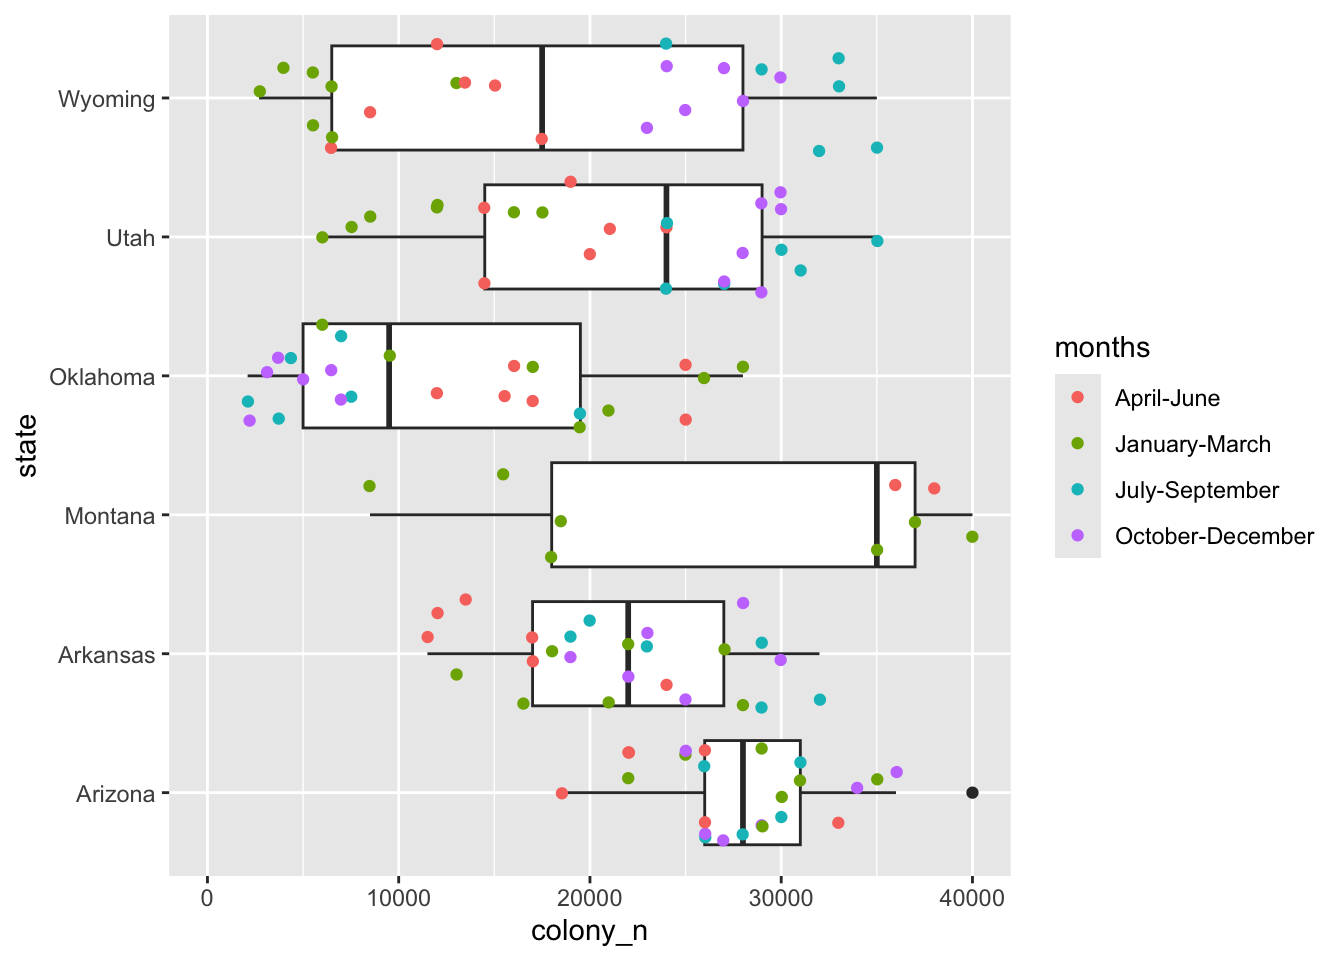
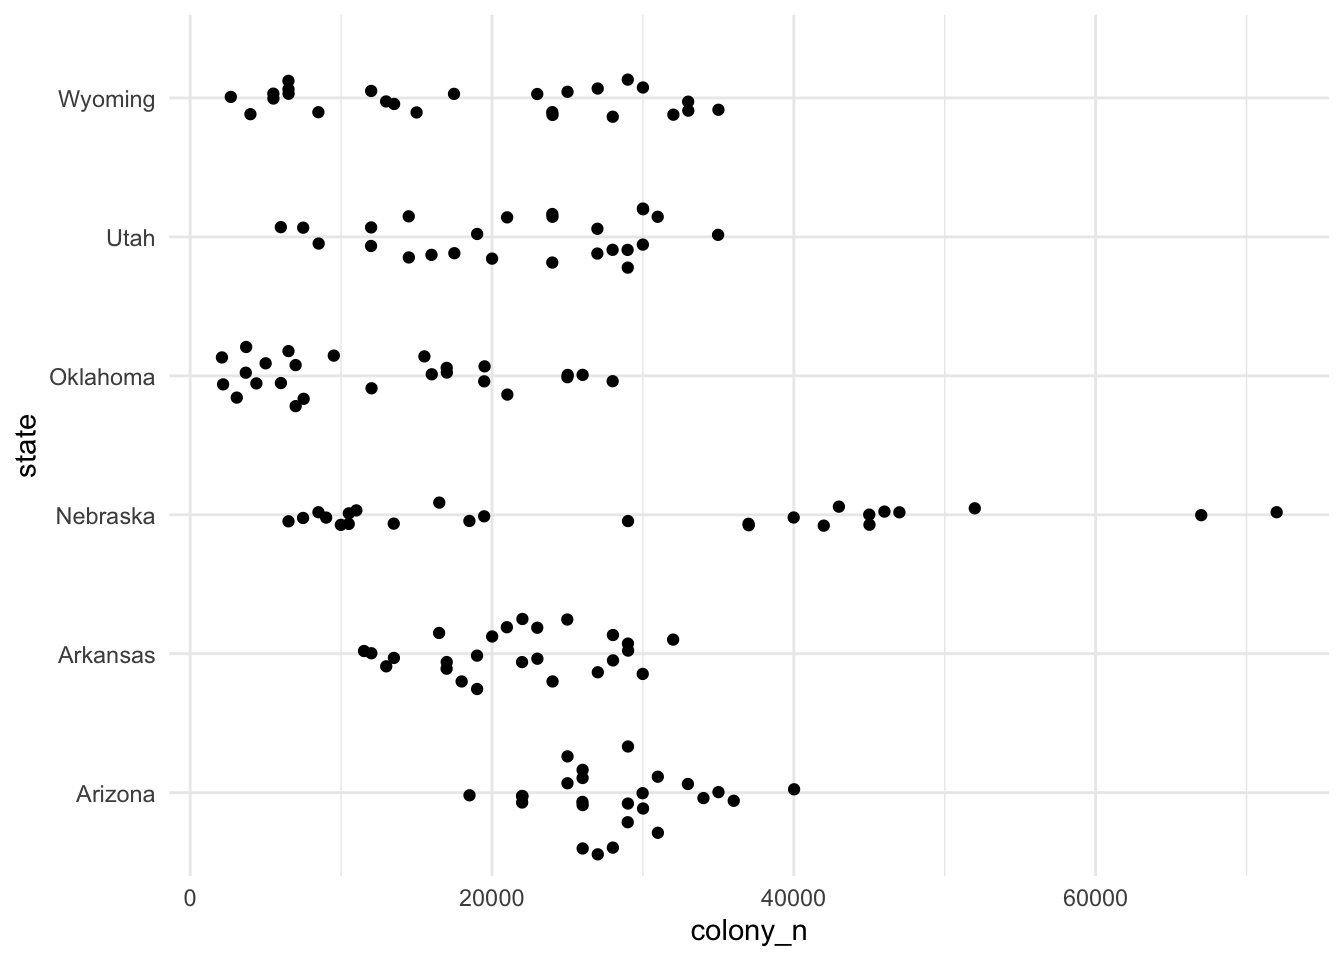
added bees

diff --git a/docs/Fallbeispiel 2 - Bienenvölker in den USA .html b/docs/Fallbeispiel 2 - Bienenvölker in den USA .html
@@ -365,8 +365,8 @@ pre > code.sourceCode > span > a:first-child::before { text-decoration: underlin
 </table>
 </section>
 </section>
-<section id="wie-verteilen-sich-die-völker-zwischen-und-innerhalb-von-jahren" class="level2">
-<h2 class="anchored" data-anchor-id="wie-verteilen-sich-die-völker-zwischen-und-innerhalb-von-jahren">Wie verteilen sich die Völker zwischen und innerhalb von Jahren</h2>
+<section id="wie-verteilen-sich-die-völkeranzahl-zwischen-den-states" class="level2">
+<h2 class="anchored" data-anchor-id="wie-verteilen-sich-die-völkeranzahl-zwischen-den-states">Wie verteilen sich die Völkeranzahl zwischen den States?</h2>
 <div class="cell">
 <div class="code-copy-outer-scaffold"><div class="sourceCode cell-code" id="cb1"><pre class="sourceCode r code-with-copy"><code class="sourceCode r"><span id="cb1-1"><a href="#cb1-1" aria-hidden="true" tabindex="-1"></a><span class="fu">library</span>(ggplot2)</span>
 <span id="cb1-2"><a href="#cb1-2" aria-hidden="true" tabindex="-1"></a><span class="fu">library</span>(dplyr)</span></code></pre></div><button title="In die Zwischenablage kopieren" class="code-copy-button"><i class="bi"></i></button></div>
@@ -403,10 +403,24 @@ Attaching package: 'dplyr'</code></pre>
 </div>
 </div>
 </div>
-<p>In diesem Plot fällt zunächst auf, dass die Quartale alphabetisch sortiert sind und nicht chronologisch. Zudem scheint die Variable <code>colony_n</code> sehr rechtsschief verteilt zu sein.</p>
+<p>In diesem Plot fällt zunächst auf, dass die Quartale alphabetisch sortiert sind und nicht chronologisch. Daher wird eine neue Zeitvariable kodiert:</p>
+<div class="cell">
+<div class="code-copy-outer-scaffold"><div class="sourceCode cell-code" id="cb8"><pre class="sourceCode r code-with-copy"><code class="sourceCode r"><span id="cb8-1"><a href="#cb8-1" aria-hidden="true" tabindex="-1"></a><span class="fu">library</span>(lubridate)</span>
+<span id="cb8-2"><a href="#cb8-2" aria-hidden="true" tabindex="-1"></a>colony <span class="ot">&lt;-</span> colony <span class="sc">%&gt;%</span></span>
+<span id="cb8-3"><a href="#cb8-3" aria-hidden="true" tabindex="-1"></a>  <span class="fu">mutate</span>(</span>
+<span id="cb8-4"><a href="#cb8-4" aria-hidden="true" tabindex="-1"></a>    <span class="at">months_num =</span> <span class="fu">case_when</span>(</span>
+<span id="cb8-5"><a href="#cb8-5" aria-hidden="true" tabindex="-1"></a>      months <span class="sc">==</span> <span class="st">"January-March"</span> <span class="sc">~</span> <span class="dv">1</span>,</span>
+<span id="cb8-6"><a href="#cb8-6" aria-hidden="true" tabindex="-1"></a>      months <span class="sc">==</span> <span class="st">"April-June"</span> <span class="sc">~</span> <span class="dv">2</span>,</span>
+<span id="cb8-7"><a href="#cb8-7" aria-hidden="true" tabindex="-1"></a>      months <span class="sc">==</span> <span class="st">"July-September"</span> <span class="sc">~</span> <span class="dv">3</span>,</span>
+<span id="cb8-8"><a href="#cb8-8" aria-hidden="true" tabindex="-1"></a>      months <span class="sc">==</span> <span class="st">"October-December"</span> <span class="sc">~</span> <span class="dv">4</span></span>
+<span id="cb8-9"><a href="#cb8-9" aria-hidden="true" tabindex="-1"></a>    ),</span>
+<span id="cb8-10"><a href="#cb8-10" aria-hidden="true" tabindex="-1"></a>    <span class="at">time_date =</span> <span class="fu">ymd</span>(<span class="fu">paste</span>(year, months_num, <span class="st">"01"</span>, <span class="at">sep =</span> <span class="st">"-"</span>))</span>
+<span id="cb8-11"><a href="#cb8-11" aria-hidden="true" tabindex="-1"></a>  )</span></code></pre></div><button title="In die Zwischenablage kopieren" class="code-copy-button"><i class="bi"></i></button></div>
+</div>
+<p>Zudem scheint die Variable <code>colony_n</code> sehr rechtsschief verteilt zu sein.</p>
 <p>Ein Blick in die Variable <code>state</code> zeigt, dass es dort sehr heterogene Gruppen gibt.</p>
 <div class="cell">
-<div class="code-copy-outer-scaffold"><div class="sourceCode cell-code" id="cb8"><pre class="sourceCode r code-with-copy"><code class="sourceCode r"><span id="cb8-1"><a href="#cb8-1" aria-hidden="true" tabindex="-1"></a><span class="fu">table</span>(colony<span class="sc">$</span>state)</span></code></pre></div><button title="In die Zwischenablage kopieren" class="code-copy-button"><i class="bi"></i></button></div>
+<div class="code-copy-outer-scaffold"><div class="sourceCode cell-code" id="cb9"><pre class="sourceCode r code-with-copy"><code class="sourceCode r"><span id="cb9-1"><a href="#cb9-1" aria-hidden="true" tabindex="-1"></a><span class="fu">table</span>(colony<span class="sc">$</span>state)</span></code></pre></div><button title="In die Zwischenablage kopieren" class="code-copy-button"><i class="bi"></i></button></div>
 <div class="cell-output cell-output-stdout">
 <pre><code>
        Alabama        Arizona       Arkansas     California       Colorado 
@@ -433,22 +447,74 @@ South Carolina   South Dakota      Tennessee          Texas  United States
 </div>
 <p>Löst man über diese auf, ergeben sich deutlich erwartungskonformere Verteilungen:</p>
 <div class="cell">
-<div class="code-copy-outer-scaffold"><div class="sourceCode cell-code" id="cb10"><pre class="sourceCode r code-with-copy"><code class="sourceCode r"><span id="cb10-1"><a href="#cb10-1" aria-hidden="true" tabindex="-1"></a>colony <span class="sc">%&gt;%</span> </span>
-<span id="cb10-2"><a href="#cb10-2" aria-hidden="true" tabindex="-1"></a>    <span class="co">#filter(state %in% c("United States", "Florida", "Utah", "Minnesota")) %&gt;% </span></span>
-<span id="cb10-3"><a href="#cb10-3" aria-hidden="true" tabindex="-1"></a>    <span class="fu">ggplot</span>(<span class="fu">aes</span>(<span class="at">x =</span> colony_n)) <span class="sc">+</span></span>
-<span id="cb10-4"><a href="#cb10-4" aria-hidden="true" tabindex="-1"></a>    <span class="fu">geom_histogram</span>() <span class="sc">+</span></span>
-<span id="cb10-5"><a href="#cb10-5" aria-hidden="true" tabindex="-1"></a>    <span class="fu">facet_wrap</span>( <span class="sc">~</span> state, <span class="at">scales =</span> <span class="st">"free"</span>)</span></code></pre></div><button title="In die Zwischenablage kopieren" class="code-copy-button"><i class="bi"></i></button></div>
+<div class="code-copy-outer-scaffold"><div class="sourceCode cell-code" id="cb11"><pre class="sourceCode r code-with-copy"><code class="sourceCode r"><span id="cb11-1"><a href="#cb11-1" aria-hidden="true" tabindex="-1"></a><span class="fu">library</span>(ggforce)</span>
+<span id="cb11-2"><a href="#cb11-2" aria-hidden="true" tabindex="-1"></a>colony <span class="sc">%&gt;%</span></span>
+<span id="cb11-3"><a href="#cb11-3" aria-hidden="true" tabindex="-1"></a>  <span class="fu">filter</span>(</span>
+<span id="cb11-4"><a href="#cb11-4" aria-hidden="true" tabindex="-1"></a>    state <span class="sc">%in%</span></span>
+<span id="cb11-5"><a href="#cb11-5" aria-hidden="true" tabindex="-1"></a>      <span class="fu">c</span>(<span class="st">"Nebraska"</span>, <span class="st">"Wyoming"</span>, <span class="st">"Utah"</span>, <span class="st">"Pensylvania"</span>, <span class="st">"Oklahoma"</span>, <span class="st">"Arizona"</span>, <span class="st">"Arkansas"</span>)</span>
+<span id="cb11-6"><a href="#cb11-6" aria-hidden="true" tabindex="-1"></a>  ) <span class="sc">%&gt;%</span></span>
+<span id="cb11-7"><a href="#cb11-7" aria-hidden="true" tabindex="-1"></a>  <span class="fu">ggplot</span>(<span class="fu">aes</span>(<span class="at">x =</span> colony_n, <span class="at">y =</span> state)) <span class="sc">+</span></span>
+<span id="cb11-8"><a href="#cb11-8" aria-hidden="true" tabindex="-1"></a>  <span class="fu">geom_sina</span>() <span class="sc">+</span></span>
+<span id="cb11-9"><a href="#cb11-9" aria-hidden="true" tabindex="-1"></a>  <span class="fu">theme_minimal</span>()</span></code></pre></div><button title="In die Zwischenablage kopieren" class="code-copy-button"><i class="bi"></i></button></div>
 <div class="cell-output cell-output-stderr">
-<pre><code>`stat_bin()` using `bins = 30`. Pick better value `binwidth`.</code></pre>
-</div>
-<div class="cell-output cell-output-stderr">
-<pre><code>Warning: Removed 47 rows containing non-finite outside the scale range
-(`stat_bin()`).</code></pre>
+<pre><code>Warning: Removed 6 rows containing non-finite outside the scale range
+(`stat_sina()`).</code></pre>
 </div>
 <div class="cell-output-display">
 <div>
 <figure class="figure">
-<p><a href="Fallbeispiel-2---Bienenvölker-in-den-USA-_files/figure-html/unnamed-chunk-5-1.png" class="lightbox" data-gallery="quarto-lightbox-gallery-2"><img src="Fallbeispiel-2---Bienenvölker-in-den-USA-_files/figure-html/unnamed-chunk-5-1.png" class="img-fluid figure-img" width="1728"></a></p>
+<p><a href="Fallbeispiel-2---Bienenvölker-in-den-USA-_files/figure-html/unnamed-chunk-6-1.png" class="lightbox" data-gallery="quarto-lightbox-gallery-2"><img src="Fallbeispiel-2---Bienenvölker-in-den-USA-_files/figure-html/unnamed-chunk-6-1.png" class="img-fluid figure-img" width="672"></a></p>
+</figure>
+</div>
+</div>
+</div>
+<p>Wie kann man nun den Unterscheid zwischen z.B. Utah und Oklahoma treffend beschreiben? Ein reiner Vergleich der Mittelwerte scheint etwas missleading:</p>
+<div class="cell">
+<div class="code-copy-outer-scaffold"><div class="sourceCode cell-code" id="cb13"><pre class="sourceCode r code-with-copy"><code class="sourceCode r"><span id="cb13-1"><a href="#cb13-1" aria-hidden="true" tabindex="-1"></a>colony <span class="sc">%&gt;%</span></span>
+<span id="cb13-2"><a href="#cb13-2" aria-hidden="true" tabindex="-1"></a>  <span class="fu">filter</span>(state <span class="sc">%in%</span> <span class="fu">c</span>(<span class="st">"Utah"</span>, <span class="st">"Oklahoma"</span>)) <span class="sc">%&gt;%</span></span>
+<span id="cb13-3"><a href="#cb13-3" aria-hidden="true" tabindex="-1"></a>  <span class="fu">group_by</span>(state) <span class="sc">%&gt;%</span> </span>
+<span id="cb13-4"><a href="#cb13-4" aria-hidden="true" tabindex="-1"></a>  <span class="fu">summarize</span>(<span class="at">MW =</span> <span class="fu">mean</span>(colony_n, <span class="at">na.rm =</span> T))</span></code></pre></div><button title="In die Zwischenablage kopieren" class="code-copy-button"><i class="bi"></i></button></div>
+<div class="cell-output cell-output-stdout">
+<pre><code># A tibble: 2 × 2
+  state       MW
+  &lt;chr&gt;    &lt;dbl&gt;
+1 Oklahoma 12368
+2 Utah     21460</code></pre>
+</div>
+</div>
+<p>Der Mittelwert Utahs liegt bei 174% des Mittelwertes von Oklahoma, jedoch ist die Probability of Superiority bei 78%%. Das bedeutet, dass wenn man 100 mal zufällig gewählte Datenpunkte aus Utah und Oklahoma vergleicht, 22 mal Oklahoma »gewinnt« und 78 mal Utah.</p>
+<div class="cell">
+<div class="code-copy-outer-scaffold"><div class="sourceCode cell-code" id="cb15"><pre class="sourceCode r code-with-copy"><code class="sourceCode r"><span id="cb15-1"><a href="#cb15-1" aria-hidden="true" tabindex="-1"></a><span class="fu">library</span>(effsize)</span>
+<span id="cb15-2"><a href="#cb15-2" aria-hidden="true" tabindex="-1"></a><span class="fu">VD.A</span>(</span>
+<span id="cb15-3"><a href="#cb15-3" aria-hidden="true" tabindex="-1"></a>  colony_n <span class="sc">~</span> state,</span>
+<span id="cb15-4"><a href="#cb15-4" aria-hidden="true" tabindex="-1"></a>  <span class="at">data =</span> colony <span class="sc">%&gt;%</span></span>
+<span id="cb15-5"><a href="#cb15-5" aria-hidden="true" tabindex="-1"></a>    <span class="fu">filter</span>(state <span class="sc">%in%</span> <span class="fu">c</span>(<span class="st">"Utah"</span>, <span class="st">"Oklahoma"</span>))</span>
+<span id="cb15-6"><a href="#cb15-6" aria-hidden="true" tabindex="-1"></a>)</span></code></pre></div><button title="In die Zwischenablage kopieren" class="code-copy-button"><i class="bi"></i></button></div>
+<div class="cell-output cell-output-stdout">
+<pre><code>
+Vargha and Delaney A
+
+A estimate: 0.2184 (large)</code></pre>
+</div>
+</div>
+<div class="cell">
+<div class="code-copy-outer-scaffold"><div class="sourceCode cell-code" id="cb17"><pre class="sourceCode r code-with-copy"><code class="sourceCode r"><span id="cb17-1"><a href="#cb17-1" aria-hidden="true" tabindex="-1"></a><span class="fu">library</span>(ggforce)</span>
+<span id="cb17-2"><a href="#cb17-2" aria-hidden="true" tabindex="-1"></a>colony <span class="sc">%&gt;%</span></span>
+<span id="cb17-3"><a href="#cb17-3" aria-hidden="true" tabindex="-1"></a>  <span class="fu">filter</span>(</span>
+<span id="cb17-4"><a href="#cb17-4" aria-hidden="true" tabindex="-1"></a>    state <span class="sc">%in%</span></span>
+<span id="cb17-5"><a href="#cb17-5" aria-hidden="true" tabindex="-1"></a>      <span class="fu">c</span>(<span class="st">"Nebraska"</span>, <span class="st">"Wyoming"</span>, <span class="st">"Utah"</span>, <span class="st">"Pensylvania"</span>, <span class="st">"Oklahoma"</span>, <span class="st">"Arizona"</span>, <span class="st">"Arkansas"</span>)</span>
+<span id="cb17-6"><a href="#cb17-6" aria-hidden="true" tabindex="-1"></a>  ) <span class="sc">%&gt;%</span></span>
+<span id="cb17-7"><a href="#cb17-7" aria-hidden="true" tabindex="-1"></a>  <span class="fu">ggplot</span>(<span class="fu">aes</span>(<span class="at">x =</span> colony_n, <span class="at">y =</span> state)) <span class="sc">+</span></span>
+<span id="cb17-8"><a href="#cb17-8" aria-hidden="true" tabindex="-1"></a>  <span class="fu">geom_jitter</span>(<span class="fu">aes</span>(<span class="at">color =</span> months), <span class="at">height =</span> .<span class="dv">2</span>) <span class="sc">+</span></span>
+<span id="cb17-9"><a href="#cb17-9" aria-hidden="true" tabindex="-1"></a>  <span class="fu">theme_minimal</span>()</span></code></pre></div><button title="In die Zwischenablage kopieren" class="code-copy-button"><i class="bi"></i></button></div>
+<div class="cell-output cell-output-stderr">
+<pre><code>Warning: Removed 6 rows containing missing values or values outside the scale range
+(`geom_point()`).</code></pre>
+</div>
+<div class="cell-output-display">
+<div>
+<figure class="figure">
+<p><a href="Fallbeispiel-2---Bienenvölker-in-den-USA-_files/figure-html/unnamed-chunk-9-1.png" class="lightbox" data-gallery="quarto-lightbox-gallery-3"><img src="Fallbeispiel-2---Bienenvölker-in-den-USA-_files/figure-html/unnamed-chunk-9-1.png" class="img-fluid figure-img" width="672"></a></p>
 </figure>
 </div>
 </div>

diff --git a/docs/exams/tempfile.html b/docs/exams/tempfile.html
@@ -168,6 +168,9 @@ ul.task-list li input[type="checkbox"] {
  <span class="menu-text">Fallbeispiel 1 - Trendstudie</span></a>
   </div>
 </li>
+        <li class="sidebar-item">
+ <span class="menu-text">Fallbeispiel 2 - Bienenvölker in den USA.qmd</span>
+  </li>
     </ul>
     </div>
 </nav>

diff --git a/docs/index.html b/docs/index.html
@@ -168,6 +168,9 @@ ul.task-list li input[type="checkbox"] {
  <span class="menu-text">Fallbeispiel 1 - Trendstudie</span></a>
   </div>
 </li>
+        <li class="sidebar-item">
+ <span class="menu-text">Fallbeispiel 2 - Bienenvölker in den USA.qmd</span>
+  </li>
     </ul>
     </div>
 </nav>

diff --git a/docs/Einfache lineare Regression.html b/docs/Einfache lineare Regression.html
@@ -197,6 +197,9 @@ window.Quarto = {
  <span class="menu-text">Fallbeispiel 1 - Trendstudie</span></a>
   </div>
 </li>
+        <li class="sidebar-item">
+ <span class="menu-text">Fallbeispiel 2 - Bienenvölker in den USA.qmd</span>
+  </li>
     </ul>
     </div>
 </nav>

diff --git a/docs/Fallbeispiel 1 - Trendstudie.html b/docs/Fallbeispiel 1 - Trendstudie.html
@@ -259,6 +259,9 @@ window.Quarto = {
  <span class="menu-text">Fallbeispiel 1 - Trendstudie</span></a>
   </div>
 </li>
+        <li class="sidebar-item">
+ <span class="menu-text">Fallbeispiel 2 - Bienenvölker in den USA.qmd</span>
+  </li>
     </ul>
     </div>
 </nav>

diff --git a/docs/Inferenzstatistik.html b/docs/Inferenzstatistik.html
@@ -259,6 +259,9 @@ window.Quarto = {
  <span class="menu-text">Fallbeispiel 1 - Trendstudie</span></a>
   </div>
 </li>
+        <li class="sidebar-item">
+ <span class="menu-text">Fallbeispiel 2 - Bienenvölker in den USA.qmd</span>
+  </li>
     </ul>
     </div>
 </nav>

diff --git a/docs/Univariate Deskriptivstatistik.html b/docs/Univariate Deskriptivstatistik.html
@@ -225,6 +225,9 @@ window.Quarto = {
  <span class="menu-text">Fallbeispiel 1 - Trendstudie</span></a>
   </div>
 </li>
+        <li class="sidebar-item">
+ <span class="menu-text">Fallbeispiel 2 - Bienenvölker in den USA.qmd</span>
+  </li>
     </ul>
     </div>
 </nav>

diff --git a/docs/Messtheorie.html b/docs/Messtheorie.html
@@ -188,6 +188,9 @@ div.csl-indent {
  <span class="menu-text">Fallbeispiel 1 - Trendstudie</span></a>
   </div>
 </li>
+        <li class="sidebar-item">
+ <span class="menu-text">Fallbeispiel 2 - Bienenvölker in den USA.qmd</span>
+  </li>
     </ul>
     </div>
 </nav>

diff --git a/docs/Methodologie.html b/docs/Methodologie.html
@@ -188,6 +188,9 @@ div.csl-indent {
  <span class="menu-text">Fallbeispiel 1 - Trendstudie</span></a>
   </div>
 </li>
+        <li class="sidebar-item">
+ <span class="menu-text">Fallbeispiel 2 - Bienenvölker in den USA.qmd</span>
+  </li>
     </ul>
     </div>
 </nav>

diff --git a/docs/Multiple lineare Regression.html b/docs/Multiple lineare Regression.html
@@ -188,6 +188,9 @@ div.csl-indent {
  <span class="menu-text">Fallbeispiel 1 - Trendstudie</span></a>
   </div>
 </li>
+        <li class="sidebar-item">
+ <span class="menu-text">Fallbeispiel 2 - Bienenvölker in den USA.qmd</span>
+  </li>
     </ul>
     </div>
 </nav>
